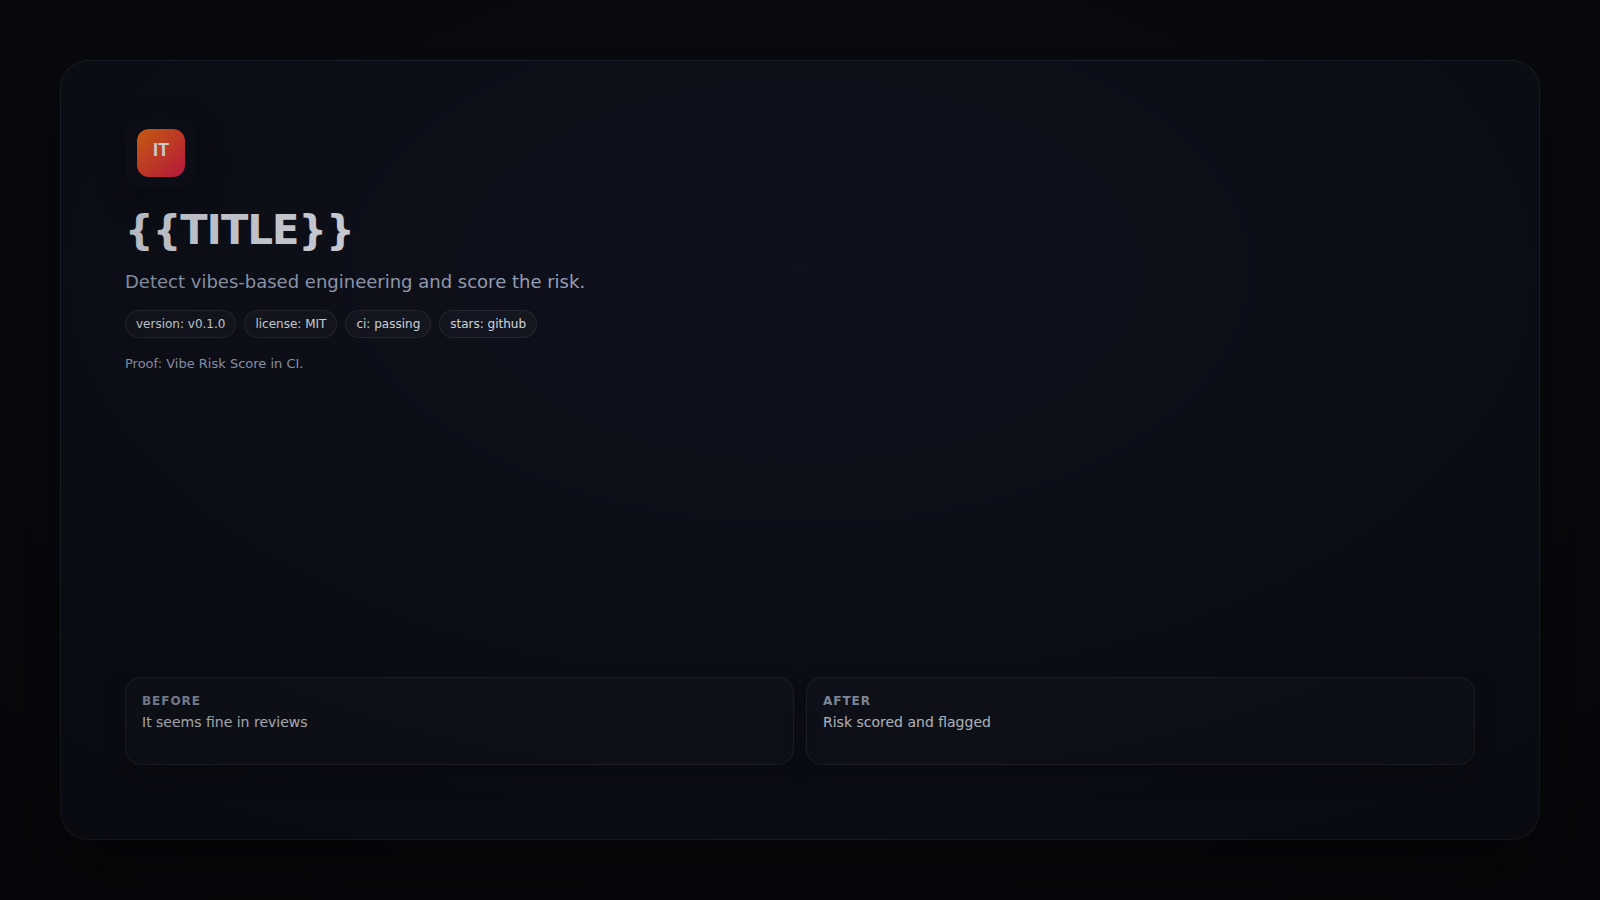
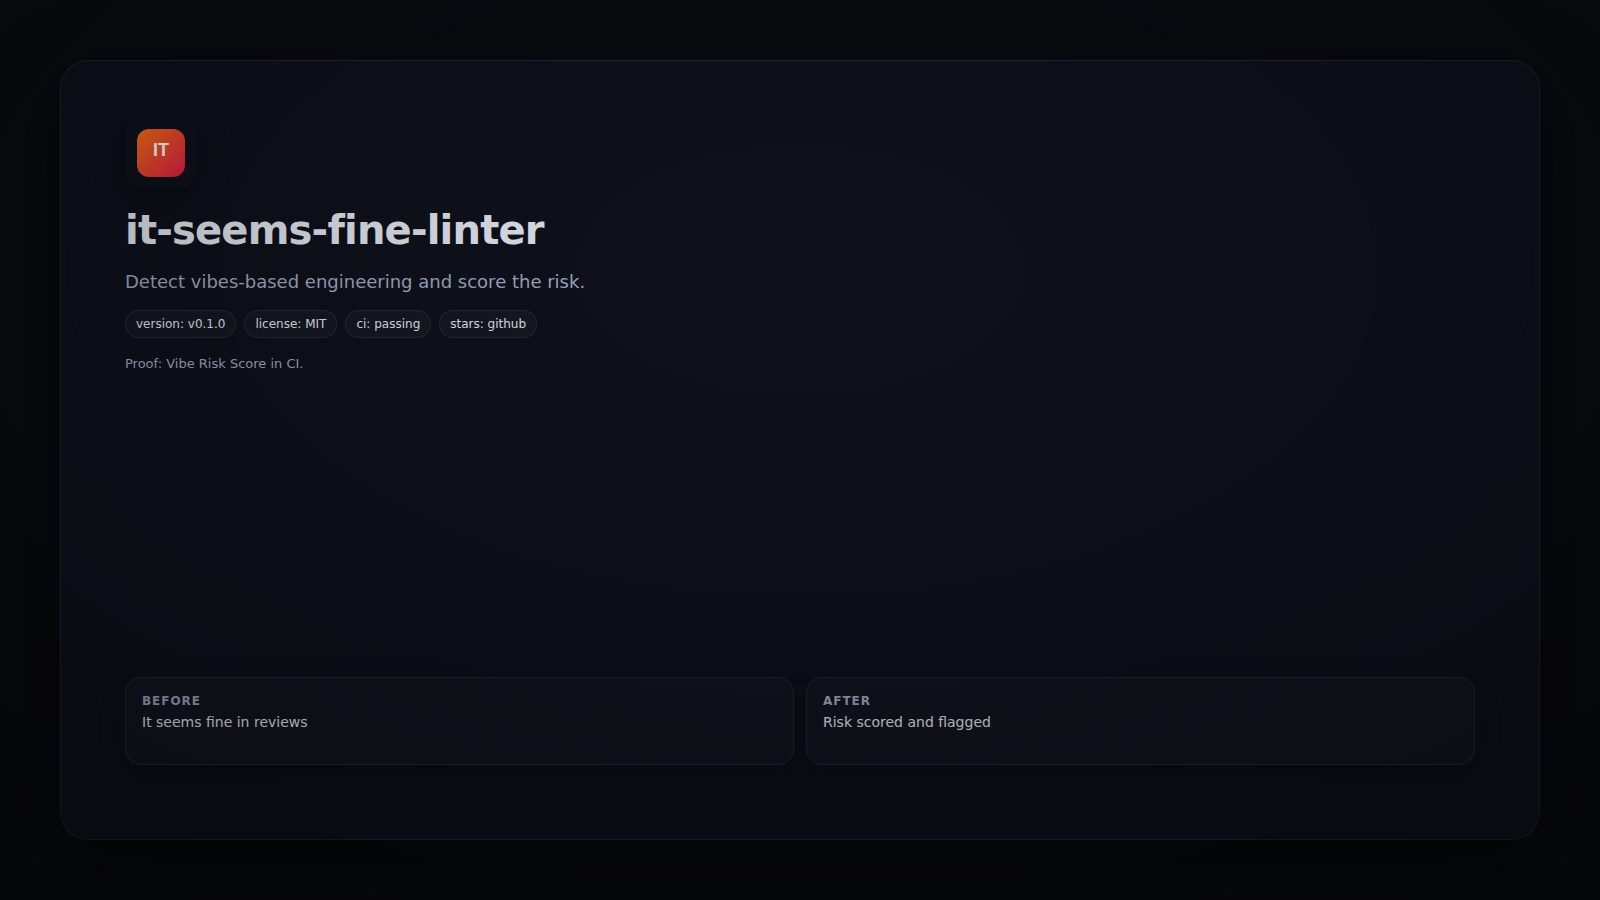
chore: update visuals

Changed region(s): [[0.0625, 0.2178, 0.3438, 0.28]]

diff --git a/assets/.hero.html b/assets/.hero.html
@@ -80,7 +80,7 @@ body { width: var(--w); height: var(--h); display: grid; place-items: center; }
 <body class="vignette" style="--w: 1600px; --h: 900px; --accent-a: #f97316; --accent-b: #e11d48;">
   <div class="canvas">
     <div class="logo"><svg xmlns="http://www.w3.org/2000/svg" width="48" height="48" viewBox="0 0 48 48"><defs><linearGradient id="g" x1="0" y1="0" x2="1" y2="1"><stop stop-color="#f97316"/><stop offset="1" stop-color="#e11d48"/></linearGradient></defs><rect width="48" height="48" rx="12" fill="url(#g)"/><text x="50%" y="56%" text-anchor="middle" font-family="Inter, Arial" font-size="18" font-weight="800" fill="white">IT</text></svg></div>
-    <div class="title">{{TITLE}}</div>
+    <div class="title">it-seems-fine-linter</div>
     <div class="tagline">Detect vibes-based engineering and score the risk.</div>
     <div class="badges"><span class="badge">version: v0.1.0</span><span class="badge">license: MIT</span><span class="badge">ci: passing</span><span class="badge">stars: github</span></div>
     <div class="proof">Proof: Vibe Risk Score in CI.</div>

diff --git a/assets/.og.html b/assets/.og.html
@@ -80,7 +80,7 @@ body { width: var(--w); height: var(--h); display: grid; place-items: center; }
 <body class="vignette" style="--w: 1200px; --h: 630px; --accent-a: #f97316; --accent-b: #e11d48;">
   <div class="canvas">
     <div class="logo"><svg xmlns="http://www.w3.org/2000/svg" width="48" height="48" viewBox="0 0 48 48"><defs><linearGradient id="g" x1="0" y1="0" x2="1" y2="1"><stop stop-color="#f97316"/><stop offset="1" stop-color="#e11d48"/></linearGradient></defs><rect width="48" height="48" rx="12" fill="url(#g)"/><text x="50%" y="56%" text-anchor="middle" font-family="Inter, Arial" font-size="18" font-weight="800" fill="white">IT</text></svg></div>
-    <div class="title">{{TITLE}}</div>
+    <div class="title">it-seems-fine-linter</div>
     <div class="tagline">Detect vibes-based engineering and score the risk.</div>
     <div class="badges"><span class="badge">version: v0.1.0</span><span class="badge">license: MIT</span><span class="badge">ci: passing</span><span class="badge">stars: github</span></div>
     <div class="proof">Proof: Vibe Risk Score in CI.</div>
